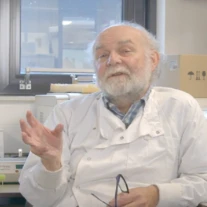
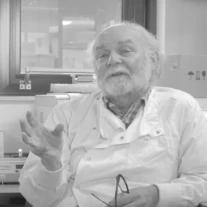
feat: scientists section as a mobile carousel with black-and-white photos (SCRUM-1353)
Photos re-cropped from the team deck in greyscale for a consistent set.
Below lg the section is a native scroll-snap carousel that bleeds to the
screen edge (scroll-pl matches the gutter); from lg all seven sit in one row.
Photo-top cards with no chrome, after Nomio's team row.

diff --git a/app/components/science/SciencePeople.tsx b/app/components/science/SciencePeople.tsx
@@ -5,12 +5,17 @@ import { SCIENCE_PEOPLE, SCIENCE_PEOPLE_INTRO } from "@/app/lib/scienceContent";
  * SciencePeople (SCRUM-1353, Simple DTC)
  *
  * Named scientists with faces: the strongest credibility device on comparable
- * science pages. Photo, name, role and (where confirmed) institution.
+ * science pages. Modelled on Nomio's team row: a square black-and-white photo,
+ * the name in bold, then role and institution as plain text, no card chrome.
  *
- * The photos are ~200px crops from the team deck, so they render as fixed
- * 96px thumbnails beside the text rather than full-width card images, which
- * keeps them sharp at 2x. Several are lab shots rather than headshots, so the
- * thumbnails are rounded squares, not circles that would crop the faces.
+ * Below lg it is a native horizontal scroll-snap carousel. The track bleeds to
+ * the screen edge by cancelling the section gutter (1.25rem, then 5vw from md),
+ * and scroll-pl matches it so the first card snaps to the text line rather
+ * than the screen edge. From lg all seven sit in one row.
+ *
+ * The photos are ~200px greyscale crops from the team deck, so cards are
+ * capped at 12rem wide on mobile and ~170px on desktop to keep them near 1:1
+ * device pixels. Higher-resolution originals would allow a bigger layout.
  *
  * Returns nothing for an empty list; the page also skips the section wrapper.
  * ========================================================================== */
@@ -27,29 +32,24 @@ export default function SciencePeople() {
         <p className="text-base leading-relaxed text-black/80">{SCIENCE_PEOPLE_INTRO.body}</p>
       </div>
 
-      <ul className="grid grid-cols-1 gap-3 sm:grid-cols-2 lg:grid-cols-3 lg:gap-4">
+      <ul className="scrollbar-hide -mx-5 flex snap-x snap-mandatory scroll-pl-5 gap-4 overflow-x-auto px-5 pb-2 md:-mx-[5vw] md:scroll-pl-[5vw] md:px-[5vw] lg:mx-0 lg:grid lg:snap-none lg:grid-cols-7 lg:overflow-visible lg:px-0 lg:pb-0">
         {SCIENCE_PEOPLE.map((person) => (
-          <li
-            key={person.name}
-            className="flex items-center gap-4 rounded-md bg-white p-4 text-black ring-1 ring-black/5"
-          >
-            <div className="relative h-24 w-24 shrink-0 overflow-hidden rounded-md bg-[#eef0f5]">
+          <li key={person.name} className="w-48 shrink-0 snap-start lg:w-auto">
+            <div className="relative aspect-square w-full overflow-hidden rounded-md bg-[#eef0f5]">
               <Image
                 src={person.photo}
                 alt={`Portrait of ${person.name}`}
                 fill
                 loading="lazy"
-                sizes="96px"
+                sizes="(min-width: 1024px) 170px, 192px"
                 className="object-cover"
               />
             </div>
-            <div className="min-w-0">
-              <h3 className="text-lg font-bold leading-tight text-black">{person.name}</h3>
-              <p className="mt-1 text-base leading-snug text-black">{person.role}</p>
-              {person.institution && (
-                <p className="mt-0.5 text-sm text-black/60">{person.institution}</p>
-              )}
-            </div>
+            <h3 className="mt-3 text-base font-bold leading-tight text-black">{person.name}</h3>
+            <p className="mt-1 text-sm leading-snug text-black">{person.role}</p>
+            {person.institution && (
+              <p className="mt-1 text-sm leading-snug text-black/60">{person.institution}</p>
+            )}
           </li>
         ))}
       </ul>

diff --git a/app/lib/scienceContent.ts b/app/lib/scienceContent.ts
@@ -289,8 +289,8 @@ export const SCIENCE_HOW_IT_WORKS = {
 // Names, photos and titles from the CONKA deck team slide; roles in our
 // research from the team. Institutions checked against university staff
 // profiles (Sept 2026): Vine, O'Malley and Halmai at Exeter, Glassbrook a
-// former Durham postdoc. Katekhaye has no institution on record. Photos are 200px square crops, so render them no
-// larger than ~100 CSS px.
+// former Durham postdoc. Katekhaye has no institution on record. Photos are
+// ~200px greyscale square crops, so the section keeps them near that size.
 
 export interface SciencePerson {
   name: string;

diff --git a/docs/PAGE_NARRATIVES.md b/docs/PAGE_NARRATIVES.md
@@ -62,7 +62,7 @@ Resolved 2026-08-27 by **adding** a CTA rather than replacing one, which was the
 | 3 | Nootropics and Adaptogens (`ScienceCategories`) | Two cards led by a strip of three ingredient renders, then answer-first definitions; why nature makes them; link to /ingredients for the research | Strong | Home "why" row 2. An inline per-ingredient research list was tried and cut as a wall of text; /ingredients owns that depth |
 | 4 | How CONKA Works (`ScienceHowItWorks`) | Flow (morning) and Clear (afternoon) as equal cards, four actives each as render tiles with what they do, tracked links to each PDP | OK | Home "why" row 3. No amounts, no per-shot totals |
 | 5 | The Proof (`ScienceProof`) | Harlequins featured (CONKA vs placebo bar), Bristol Bears and Revolut with honest design notes, Exeter in progress, research partners always visible | Strong | `#proof` anchor target from the hero |
-| 6 | The Scientists (`SciencePeople`) | Seven named scientists with photos, their role in our research and institution | OK | Scientists only, founders stay on /our-story. Katekhaye has no institution on record |
+| 6 | The Scientists (`SciencePeople`) | Seven named scientists with black-and-white photos, their role in our research and institution; a swipe carousel on mobile, one row on desktop | OK | Scientists only, founders stay on /our-story. Katekhaye has no institution on record |
 | 7 | We Don't Stop at the Trials (`ScienceMeasure`) | The app test framed as ongoing research every test adds to, phone graphic, test and user counts from `APP_INSIGHTS_TOTALS`, links to /app and /app-insights | OK | Home "why" row 5, framed forward. "Don't take our word for it" was cut because it undercut the trials above |
 | 8 | Close (`ScienceCTA`) | Flow + Clear together, trust lines, Try Flow + Clear CTA, `ReviewedDate` | OK | |
 

diff --git a/docs/CHANGELOG.md b/docs/CHANGELOG.md
@@ -5,6 +5,7 @@
 ---
 
 <!-- changelog:newest - new entries are inserted directly below this line, newest first, one line each -->
+- **2026-09-16** | /science scientists section: black-and-white photos throughout, and a Nomio-style swipe carousel on mobile with one row on desktop (SCRUM-1353)
 - **2026-09-16** | /science review round: hero and app graphics move up on mobile with centred CTAs, the coffee app stat and the inline ingredient research list are cut (linking to /ingredients instead), nootropic and adaptogen cards and the Flow and Clear actives become ingredient render tiles, research partners are always visible, scientist roles and Exeter and Durham affiliations are filled in, and the app section is reframed as ongoing research (SCRUM-1352, SCRUM-1353)
 - **2026-09-16** | /science gains a "The scientists behind CONKA" section: seven named scientists with photos and roles (Hind, Chazot, Vine, Katekhaye, Glassbrook, O'Mally, Halmai), between the trials and the app section (SCRUM-1353)
 - **2026-09-16** | /science middle rebuilt in Simple DTC: a challenge section with our coffee vs CONKA app data, a plain-English "what are nootropics and adaptogens" explainer with every active's study and dose behind an accordion, equal Flow and Clear cards with tracked PDP links, and a measure-it-yourself app section. The disputed per-shot mg totals are gone (SCRUM-1352)
